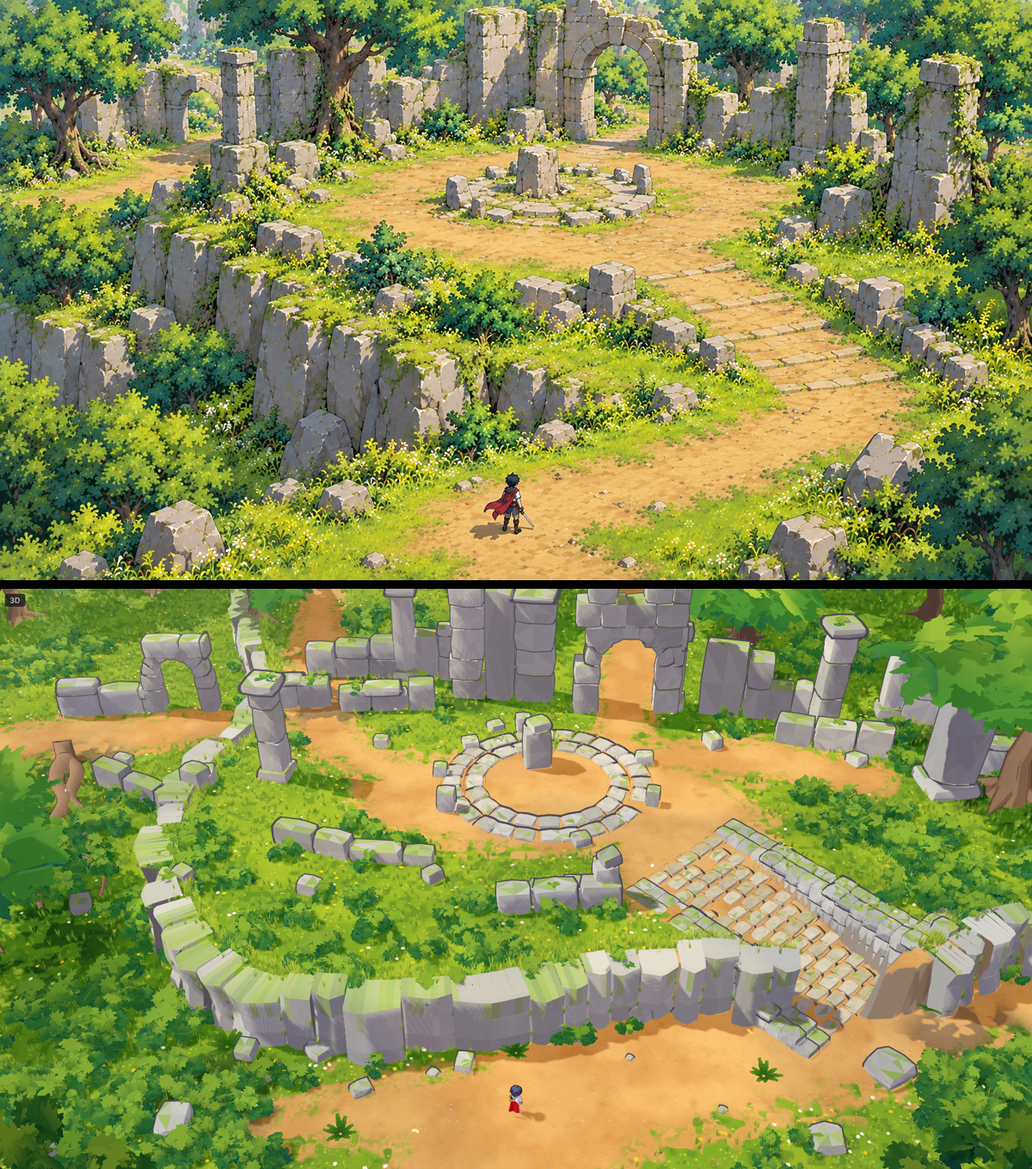
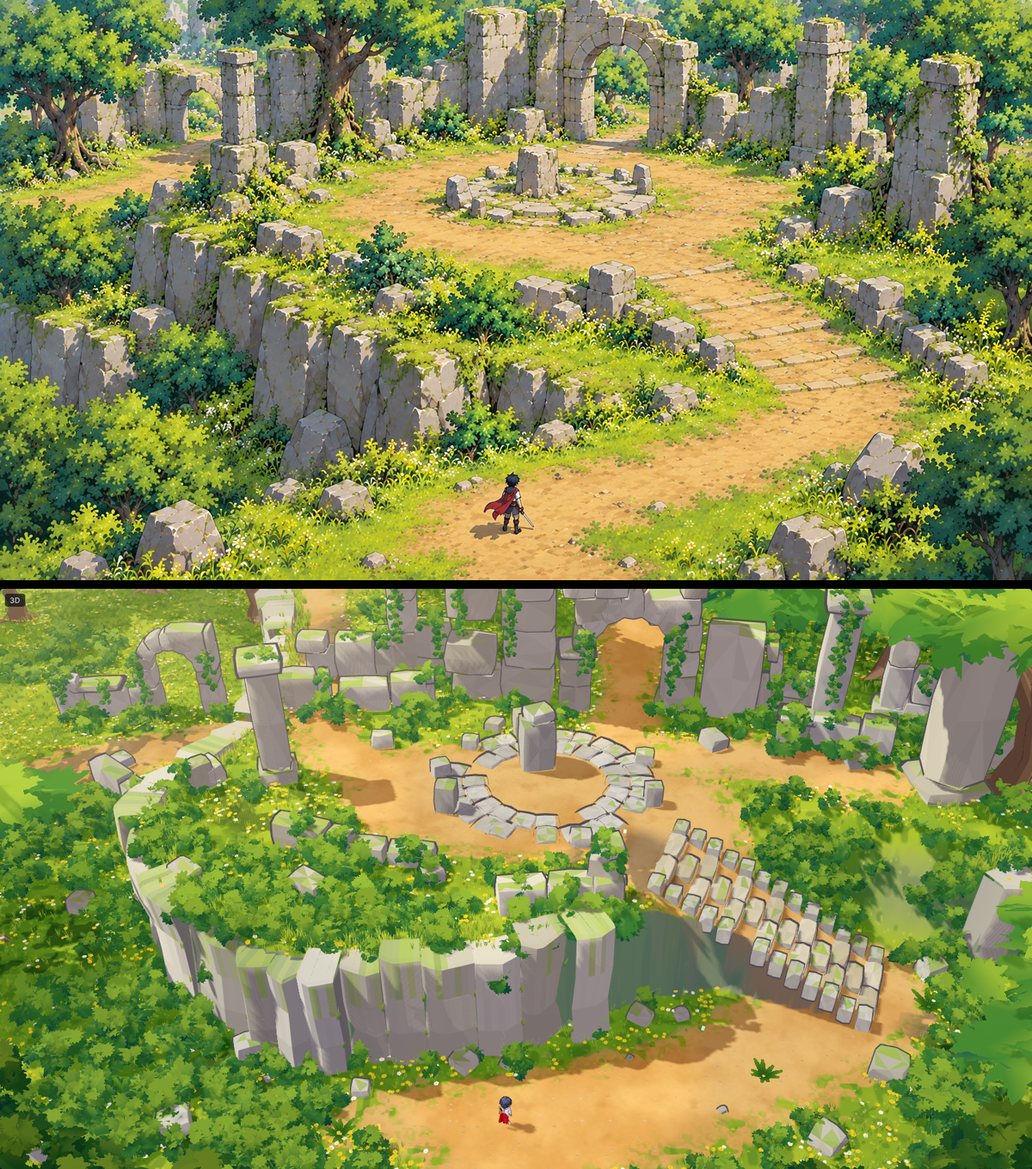
Ruins scene: concept heights and positions, stair on a hillside as the leading line, overgrowth and warm light
Claude-Session: https://claude.ai/code/session_01N6NyACoSM5MyJPcPLs4wAw

diff --git a/scenes/ruins/scene.js b/scenes/ruins/scene.js
@@ -11,8 +11,8 @@ function P(u, v, y = 0) {
 const K = 2.4;   // the owner asked for more room in the same frame: the camera stands K x farther back
 const TS = K / 1.8 * 1.25;   // trees grow with the room, and a quarter bigger again (owner's ask)
 const HT = 1.45, H = v => v * HT;   // cliff heights: tall rock faces, as in the forest scene
-const RS = K / 1.8;   // ruin scale: the masonry grows with the room so it keeps the concept's size in frame
-const UP = H(2.4);   // the upper level: the plaza and the ruins
+const RS = K * 0.65;   // ruin scale: the concept's proportions, grown with the room, so the frame matches the concept
+const UP = 2.9 * K;   // the upper level (the plaza and the ruins): the concept's cliff, a few times the hero's height, grown with the room
 const inFrame = (u, v) => u > -0.08 && u < 1.08 && v > -0.06 && v < 1.06;
 // ground mesh bounds (metres)
 const GX0 = -30 * K, GX1 = 30 * K, GZ0 = -44 * K, GZ1 = 10 * K;
@@ -22,10 +22,10 @@ function noise2(x, z) { return Math.sin(x * 0.7 + Math.sin(z * 0.53)) * 0.5 + Ma
 // from the right, and on the left it turns back toward the ruins; the far left stays low. 'b' points sit at the cliff foot on the low ground, 't' points on the
 // top off screen, 'n' points at the foot of the paved ramp (no cliff there: the ramp cuts the slope).
 const TERRACES = [
-  { top: UP, ledge: true, pts: [[0.23, -0.5, 't'], [0.24, 0.05, 'b'], [0.25, 0.17, 'b'], [0.255, 0.24, 'b'], [0.24, 0.3, 'b'], [0.205, 0.36, 'b'], [0.175, 0.44, 'b'], [0.165, 0.54, 'b'],
-    [0.18, 0.64, 'b'], [0.215, 0.725, 'b'], [0.27, 0.77, 'b'], [0.36, 0.785, 'b'], [0.46, 0.775, 'b'], [0.54, 0.745, 'b'], [0.61, 0.725, 'b'], [0.68, 0.72, 'b'], [0.745, 0.73, 'b'], [0.795, 0.742, 'b'],
-    [0.802, 0.744, 'n'], [0.866, 0.733, 'n'],
-    [0.872, 0.732, 'b'], [0.91, 0.705, 'b'], [0.95, 0.665, 'b'], [0.99, 0.65, 'b'], [1.3, 0.67, 'b'], [1.3, -0.5, 't']] },
+  { top: UP, ledge: true, pts: [[0.27, -0.5, 't'], [0.28, 0.05, 'b'], [0.28, 0.2, 'b'], [0.27, 0.3, 'b'], [0.25, 0.37, 'b'], [0.21, 0.43, 'b'], [0.17, 0.5, 'b'], [0.155, 0.58, 'b'],
+    [0.17, 0.66, 'b'], [0.215, 0.73, 'b'], [0.27, 0.78, 'b'], [0.36, 0.8, 'b'], [0.45, 0.79, 'b'], [0.52, 0.765, 'b'], [0.58, 0.73, 'b'], [0.63, 0.7, 'b'], [0.7, 0.69, 'b'], [0.77, 0.7, 'b'],
+    [0.8, 0.705, 'n'], [0.9, 0.69, 'n'],
+    [0.92, 0.68, 'b'], [0.97, 0.64, 'b'], [1.3, 0.62, 'b'], [1.3, -0.5, 't']] },
 ].map(T => {
   let pts = T.pts.map(([u, v, k]) => { const [x, z] = P(u, v, k === 't' ? T.top : 0); return { x, z, wall: k === 'b' && inFrame(u, v), u, v }; });
   if (T.ledge) {
@@ -56,8 +56,9 @@ function polyAt(T, x, z) {
 }
 // the paved ramp from the front trail up to the plaza
 const ST = (() => {
-  const [x0, z0] = P(0.835, 0.725, 0), [x1, z1] = P(0.66, 0.46, UP), dx = x1 - x0, dz = z1 - z0, len = Math.hypot(dx, dz);
-  return { x0, z0, x1, z1, ux: dx / len, uz: dz / len, len, half: 3.6, n: Math.round(len / 1.0), top: UP };
+  const [x0, z0] = P(0.85, 0.7, 0), [x1, z1] = P(0.64, 0.455, UP), dx = x1 - x0, dz = z1 - z0, len = Math.hypot(dx, dz);
+  const [ax, az] = P(0.695, 0.56, UP * 0.5), [bx, bz] = P(0.795, 0.56, UP * 0.5);
+  return { x0, z0, x1, z1, ux: dx / len, uz: dz / len, len, half: Math.hypot(bx - ax, bz - az) * 0.38, bank: 8, n: Math.round(UP / 0.55), top: UP };
 })();
 function stairsAt(x, z) {
   const rx = x - ST.x0, rz = z - ST.z0, a = (rx * ST.ux + rz * ST.uz) / ST.len, s = Math.abs(-rx * ST.uz + rz * ST.ux);
@@ -66,14 +67,13 @@ function stairsAt(x, z) {
 // trails: polylines of [u, v, half width m, plane height]
 const TRAILS = [
   // the low ground: from the bottom of the frame to the ramp foot, a branch out to the right
-  [[0.47, 1.25, 2.6], [0.48, 0.95, 2.6], [0.56, 0.86, 2.4], [0.68, 0.8, 2.3], [0.78, 0.76, 2.3], [0.835, 0.74, 2.3]],
-  [[0.8, 0.77, 1.8], [0.9, 0.745, 1.6], [0.98, 0.715, 1.5], [1.1, 0.7, 1.4]],
-  [[0.28, 0.93, 1.3], [0.4, 0.9, 1.8], [0.48, 0.92, 2.2]],
+  [[0.47, 1.25, 1.9], [0.49, 0.95, 1.9], [0.57, 0.9, 1.8], [0.67, 0.855, 1.8], [0.76, 0.785, 1.8], [0.83, 0.725, 1.7], [0.85, 0.705, 1.6]],
+  [[0.33, 0.93, 1.0], [0.4, 0.91, 1.4], [0.48, 0.92, 1.8]],
   // up top: the plaza round the stone ring, out through the arch, to the left and to the right
-  [[0.42, 0.345, 2.6, UP], [0.53, 0.355, 3.1, UP], [0.64, 0.38, 2.6, UP], [0.66, 0.44, 2.4, UP], [0.665, 0.48, 2.4, UP]],
+  [[0.42, 0.345, 2.6, UP], [0.53, 0.355, 3.1, UP], [0.63, 0.38, 2.4, UP], [0.645, 0.43, 2.0, UP], [0.645, 0.46, 2.0, UP]],
   [[0.56, 0.33, 1.6, UP], [0.6, 0.25, 1.3, UP], [0.61, 0.16, 1.1, UP], [0.62, 0.0, 1.0, UP], [0.63, -0.3, 1.0, UP]],
   [[0.45, 0.33, 1.6, UP], [0.36, 0.3, 1.3, UP], [0.315, 0.24, 1.2, UP], [0.31, 0.12, 1.1, UP], [0.31, -0.3, 1.0, UP]],
-  [[0.2, 0.235, 1.1], [0.1, 0.255, 1.1], [-0.1, 0.275, 1.0]],
+  [[0.25, 0.25, 1.0], [0.15, 0.28, 1.0], [0.05, 0.32, 1.0], [-0.1, 0.37, 0.9]],
   [[0.64, 0.29, 1.1, UP], [0.75, 0.295, 1.0, UP], [0.84, 0.325, 0.95, UP]],
 ].map(pl => pl.map(([u, v, w, h = 0]) => { const [x, z] = P(u, v, h); return new V3(x, w * K, z); }))
   // a smooth curve through the authored points (width rides along in y), sampled every 1.2 m
@@ -93,7 +93,7 @@ function trailAt(x, z) {
 const edgeWob = (x, z) => 1.0 * noise2(x * 0.19 + 3.1, z * 0.23 - 1.7) + 0.45 * noise2(x * 0.51 - 2, z * 0.44 + 4);
 const trailEdge = (x, z) => trailAt(x, z) + edgeWob(x, z);
 // patches of leaf shade on the ground, where the concept's canopy darkens the trail
-const SHADE = [[0.07, 0.33, 3.0], [0.33, 0.25, 2.4], [0.72, 0.2, 2.4], [0.97, 0.42, 2.6], [0.05, 0.6, 2.5], [0.95, 0.8, 2.4], [0.2, 0.88, 2.2], [0.45, 0.24, 1.8], [0.86, 0.3, 1.8]]
+const SHADE = [[0.37, 0.2, 2.8], [0.5, 0.21, 2.2], [0.86, 0.25, 2.6], [0.14, 0.28, 2.6], [0.6, 0.62, 2.0], [0.28, 0.5, 2.2], [0.07, 0.33, 3.0], [0.33, 0.25, 2.4], [0.72, 0.2, 2.4], [0.97, 0.42, 2.6], [0.05, 0.6, 2.5], [0.95, 0.8, 2.4], [0.2, 0.88, 2.2], [0.45, 0.24, 1.8], [0.86, 0.3, 1.8]]
   .map(([u, v, r]) => { const [x, z] = P(u, v); return { x, z, r: r * K }; });
 const shadeAt = (x, z) => SHADE.reduce((m, s) => Math.max(m, 1 - smooth(s.r * 0.45, s.r, Math.hypot(x - s.x, z - s.z))), 0);
 
@@ -107,7 +107,13 @@ function field(x, z) {
     if (w > 0) { y = Math.max(y, T.top * w); if (T.ledge || T.top > 2) top = Math.max(top, w); }
   }
   const st = stairsAt(x, z);
-  if (st.inside) y = ST.top * Math.max(0, Math.min(1, st.a));
+  // the stair lies on a hillside: the ground either side slopes down with it, no cliff beside it
+  if (st.a > -0.35 && st.a < 1.1 && st.s < ST.half + ST.bank) {
+    const sy = ST.top * Math.max(0, Math.min(1, st.a));
+    const k = Math.max(smooth(ST.half + 0.3, ST.half + ST.bank, st.s), smooth(1.0, 1.1, st.a));
+    if (y > sy) y = sy + (y - sy) * k;
+    if (st.inside) y = sy;
+  }
   return { y, top };
 }
 function height(x, z) {
@@ -135,7 +141,7 @@ function buildGround() {
   g.computeVertexNormals();
   const box = new THREE.Vector4(GX0, GZ0, W, D);
   const mat = paint({
-    vertexColors: true, shade: [0.62, 0.5, 0.42], mid: [0.84, 0.74, 0.64], band: [-0.2, 0.18],
+    vertexColors: true, shade: [0.5, 0.42, 0.4], mid: [0.8, 0.7, 0.62], band: [-0.2, 0.18],
     uniforms: { uBake: GROUND_BAKE, uBakeBox: { value: box } },
     extraFrag: 'uniform sampler2D uBake; uniform vec4 uBakeBox;',
     albedo: /* glsl */`
@@ -165,14 +171,14 @@ function buildGround() {
   tr*=1.-step(.76,vnoise(q*1.6+11.))*smoothstep(-2.,-.5,dd);
   wgt.x=1.-tr; wgt.y=tr;
   // the trail: packed orange dirt with darker trodden patches, worn paler middle and small pebbles
-  vec3 trail=mix(${L('#dda461')},${L('#ecba72')},smoothstep(.3,.7,n1));
+  vec3 trail=mix(${L('#e0ab63')},${L('#efc27b')},smoothstep(.3,.7,n1));
   trail=mix(trail,${L('#cc8f4c')},smoothstep(.6,.8,fbm(q*.8+5.))*.4);
   trail=mix(trail,${L('#f2c886')},(1.-smoothstep(-3.,-1.,vD))*smoothstep(.45,.7,fbm(q*.5+2.))*.35);
   trail*=.97+.05*n3;
   vec2 pc=fract(q*2.6)-.5; float peb=step(.9,hash12(floor(q*2.6)))*(1.-smoothstep(.1,.16,length(pc)));
   trail=mix(trail,mix(${L('#a99a86')},${L('#d8cfc0')},step(0.,pc.y)),peb*.85);
   // grass: bright yellow-green, darker mottles and pale specks
-  vec3 grass=mix(${L('#86a836')},${L('#a6bc3b')},smoothstep(.32,.7,n1));
+  vec3 grass=mix(${L('#90ad38')},${L('#b3c540')},smoothstep(.32,.7,n1));
   grass=mix(grass,${L('#5a8536')},smoothstep(.56,.78,n2)*.55);
   grass=mix(grass,${L('#cdd65a')},step(.965,hash12(floor(q*9.)))*.7);
   // a ragged grass edge spilling over the dirt
@@ -205,7 +211,7 @@ function buildGround() {
 const COLLIDERS = [];
 function cliffRuns(T) {
   const p = T.pts, n = p.length;
-  const onStairs = q => stairsAt(q.x, q.z).s < ST.half - 0.4 && stairsAt(q.x, q.z).a > -0.15 && stairsAt(q.x, q.z).a < 1.15;
+  const onStairs = q => stairsAt(q.x, q.z).s < ST.half + ST.bank - 1 && stairsAt(q.x, q.z).a > -0.35 && stairsAt(q.x, q.z).a < 1.05;   // the hillside by the stair
   const wall = i => p[i].wall && !onStairs(p[i]) && !onStairs(p[(i + 1) % n]);
   const runs = [];
   if (p.every((_, i) => wall(i))) return [{ pts: p.slice(), closed: true }];
@@ -252,9 +258,9 @@ function buildCliffs() {
       // columns between cracks
       const cols = []; let i0 = 0;
       while (i0 < S.length - 1) {
-        const w = rand() < 0.22 ? R(2.6, 4.2) : R(1.1, 2.2); let i1 = i0 + 1;
+        const w = (rand() < 0.22 ? R(2.6, 4.2) : R(1.1, 2.2)) * 1.5; let i1 = i0 + 1;
         while (i1 < S.length - 1 && S[i1].s - S[i0].s < w) i1++;
-        cols.push({ i0, i1, s0: S[i0].s, s1: S[i1].s, off: R(-0.2, 1.0), slope: R(-0.15, 0.15), ridge: R(0.2, 0.6), peak: R(0.3, 0.7), top: T.top + R(0.05, 0.9), cap: R(0.9, 1.6), moss: R(0, 1), rows: F.map(() => R(-0.25, 0.25)), lean: R(-0.2, 0.35), c: pick(stone).clone().multiplyScalar(R(0.95, 1.05)), mid: (S[i0].s + S[i1].s) / 2 });
+        cols.push({ i0, i1, s0: S[i0].s, s1: S[i1].s, off: R(-0.2, 1.4), slope: R(-0.15, 0.15), ridge: R(0.3, 0.9), peak: R(0.3, 0.7), top: T.top + (rand() < 0.35 ? R(0.6, 1.6) : R(-0.3, 0.4)), cap: R(0.9, 1.6), moss: R(0, 1), rows: F.map(() => R(-0.25, 0.25)), lean: R(-0.2, 0.35), c: pick(stone).clone().multiplyScalar(R(0.95, 1.05)), mid: (S[i0].s + S[i1].s) / 2 });
         i0 = i1;
       }
       const vtx = (C, i, r) => {
@@ -324,34 +330,22 @@ function buildCliffs() {
 }
 function buildLedges() {
   const blk = { chamfer: 0.12, jitter: 0.14, extra: 7 };
-  // the ramp: rows of worn sandy slabs in a running bond
-  const across = Math.max(3, Math.round(ST.half * 2 / 1.4)), ry = Math.atan2(ST.ux, ST.uz), wd = ST.half * 2 / across;
+  // the stair: rows of worn sandy slabs in a running bond, one step a row
+  const across = Math.max(2, Math.round(ST.half * 2 / 2.3)), ry = Math.atan2(ST.ux, ST.uz), wd = ST.half * 2 / across;
   for (let i = 0; i < ST.n; i++) {
     const a = (i + 0.5) / ST.n;
     for (let k = 0; k <= across; k++) {
       const off = -ST.half + (k + (i % 2 ? 0 : 0.5)) * wd;
       if (Math.abs(off) > ST.half - wd * 0.3 || rand() < 0.05) continue;
       const x = ST.x0 + ST.ux * ST.len * a + ST.uz * off, z = ST.z0 + ST.uz * ST.len * a - ST.ux * off;
-      addStone(x, height(x, z) - 0.12, z, wd * R(0.84, 0.95), 0.24, ST.len / ST.n * R(0.82, 0.94), { chamfer: 0.18, jitter: 0.06, extra: 4, ry: ry + R(-0.05, 0.05), moss: 0.1, base: pick(['#ddd0ae', '#d2c4a0', '#e4d8b8']) });
+      addStone(x, ST.top * i / ST.n - 0.1, z, wd * R(0.95, 1.0), ST.top / ST.n + 0.14, ST.len / ST.n * 1.06, { chamfer: 0.18, jitter: 0.06, extra: 4, ry: ry + R(-0.05, 0.05), moss: 0.1, base: pick(['#ddd0ae', '#d2c4a0', '#e4d8b8']) });
     }
-    // its sides: masonry filling the step between the ramp and the ground beside it
-    for (const side of [-1, 1]) for (const d of [0.6, 1.7]) {
-      const px = ST.x0 + ST.ux * ST.len * a + ST.uz * side * (ST.half + d), pz = ST.z0 + ST.uz * ST.len * a - ST.ux * side * (ST.half + d);
-      const yr = ST.top * a, out = Math.max(height(px, pz), height(px + ST.uz * side * 1.8, pz - ST.ux * side * 1.8));
-      const lo = Math.min(yr, out) - 0.4, hi = Math.round((Math.max(yr + 0.4, out + 0.15)) / 0.45) * 0.45;   // tops on a course line, not jagged
-      if (hi - lo < 0.5) continue;
-      for (let y = lo; y < hi - 0.1;) { const h = Math.min(0.95 * RS, hi - y); block(px, y, pz, ST.len / ST.n * 1.04, h, 1.15, ry, y + h >= hi - 0.05 ? 0.5 : 0.15); y += h; }
-      COLLIDERS.push({ x: px, z: pz, r: 0.7 });
+    // kerb stones along both edges, half sunk, some gone
+    for (const side of [-1, 1]) {
+      if (rand() < 0.15) continue;
+      const px = ST.x0 + ST.ux * ST.len * a + ST.uz * side * (ST.half + 0.45), pz = ST.z0 + ST.uz * ST.len * a - ST.ux * side * (ST.half + 0.45);
+      block(px, ST.top * i / ST.n - 0.2, pz, ST.len / ST.n * 1.04, ST.top / ST.n + R(0.45, 0.8), 0.85, ry + R(-0.05, 0.05), 0.4);
     }
-  }
-  // the corners at the ramp's foot: masonry wrapping round to meet the cliff
-  for (const side of [-1, 1]) for (const d of [0.6, 1.7, 2.8, 3.9]) {
-    const px = ST.x0 + ST.uz * side * (ST.half + d) - ST.ux * 0.3, pz = ST.z0 - ST.ux * side * (ST.half + d) - ST.uz * 0.3;
-    const out = Math.max(height(px + ST.ux * 1.2, pz + ST.uz * 1.2), height(px + ST.ux * 2.4, pz + ST.uz * 2.4));
-    if (out < 0.8) continue;
-    const hi = Math.round((out + 0.15) / 0.45) * 0.45;
-    for (let y = height(px, pz) - 0.4; y < hi - 0.1;) { const h = Math.min(0.95 * RS, hi - y); block(px, y, pz, 1.12, h, 1.2, ry, y + h >= hi - 0.05 ? 0.5 : 0.15); y += h; }
-    COLLIDERS.push({ x: px, z: pz, r: 0.7 });
   }
 }
 
@@ -362,6 +356,11 @@ const blockStyle = { chamfer: 0.1, jitter: 0.05, extra: 5 };
 function block(x, y, z, w, h, d, ry = 0, moss = 0.35, o = {}) {
   // never a sliver: a thin block's outline shell would be scaled up into a dark sheet
   addStone(x, y, z, Math.max(w, 0.35), Math.max(h, 0.35), Math.max(d, 0.35), { ...blockStyle, ry, moss, ...o });
+}
+// ivy hanging down a face from y0: a strand of small leaf clumps, thinning as it falls
+function ivy(x, y0, z, nx, nz, len) {
+  const n = Math.max(2, Math.round(len / (0.42 * RS)));
+  for (let i = 0; i < n; i++) { const t = i / n; addBush(x + nx * 0.18 + R(-0.18, 0.18), y0 - t * len, z + nz * 0.18, (0.34 - 0.14 * t) * RS, { sy: 0.9, tint: R(-0.7, 0.2) }); }
 }
 // a column of drums on a plinth, capped or broken off
 function pillar(u, v, hgt, w, { cap = true } = {}) {
@@ -374,7 +373,9 @@ function pillar(u, v, hgt, w, { cap = true } = {}) {
   else while (y < g + hgt - 0.7 * RS) { const h = Math.min(R(1.6, 2.6) * RS, g + hgt - 0.5 * RS - y); block(x + R(-0.06, 0.06), y, z + R(-0.06, 0.06), w * R(0.95, 1.02), h, w * R(0.95, 1.02), ry + R(-0.05, 0.05), 0.3); y += h - 0.02; }
   if (cap) block(x, y, z, w * 1.35, 0.5 * RS, w * 1.35, ry, 0.75);
   else block(x + w * 0.15, y, z, w * 0.75, 0.6 * RS, w * 0.7, ry + 0.4, 0.7, { rz: 0.18 });
-  if (rand() < 0.6) addBush(x + R(-0.3, 0.3), y + 0.3 * RS, z + R(-0.3, 0.3), 0.45 * RS, { sy: 0.45, tint: 0.2 });
+  if (rand() < 0.75) addBush(x + R(-0.3, 0.3), y + 0.3 * RS, z + R(-0.3, 0.3), 0.5 * RS, { sy: 0.45, tint: 0.2 });
+  if (rand() < 0.6) ivy(x + R(-0.2, 0.2) * w, y + 0.2 * RS, z + w * 0.5, 0, 1, (y - g) * R(0.35, 0.8));
+  for (let k = 0; k < 2; k++) addBush(x + R(-1, 1) * w, g - 0.1, z + w * R(0.6, 1.2), R(0.5, 0.8) * RS, { sy: 0.7, tint: R(-0.8, 0) });
   COLLIDERS.push({ x, z, r: w * 0.85 });
 }
 // a ruined wall along a polyline: courses of blocks in a running bond, its top broken and ragged
@@ -394,8 +395,11 @@ function wallRun(pts, hgt, depth, seedOff = 0) {
         if (!(course > 1 && rand() < 0.06)) block(x + tx * sh, y, z + tz * sh, w * R(0.92, 1.0), h, depth * R(0.92, 1.05), ry + R(-0.04, 0.04), y + h > g + top - 0.25 ? 0.65 : 0.18);
         y += h; course++;
       }
-      if (rand() < 0.3) addBush(x, g + top - 0.1, z, R(0.35, 0.55) * RS, { sy: 0.45, tint: 0.2 });
-      if (rand() < 0.3) addBush(x + R(-0.6, 0.6), g - 0.1, z + R(0.6, 1.4), R(0.5, 0.8) * RS, { sy: 0.7, tint: -0.5 });
+      // overgrown: moss and leaves on top, ivy down the face toward us, bushes at the foot
+      let nx = tz, nz = -tx; if (nz < 0) { nx = -nx; nz = -nz; }
+      if (rand() < 0.6) addBush(x, g + top - 0.1, z, R(0.4, 0.6) * RS, { sy: 0.45, tint: 0.2 });
+      if (rand() < 0.5) ivy(x + tx * R(-0.4, 0.4) * w + nx * depth * 0.5, g + top, z + tz * R(-0.4, 0.4) * w + nz * depth * 0.5, nx, nz, top * R(0.4, 0.85));
+      if (rand() < 0.75) addBush(x + nx * (depth * 0.5 + R(0.3, 0.9)) + tx * R(-0.5, 0.5) * w, g - 0.1, z + nz * (depth * 0.5 + R(0.3, 0.9)), R(0.55, 0.9) * RS, { sy: 0.7, tint: R(-0.8, 0) });
       COLLIDERS.push({ x, z, r: Math.max(w, depth) * 0.55 });
       s += w;
     }
@@ -409,6 +413,8 @@ function archway(u, v, span, pierH, topH, pierW, depth, ry = 0) {
   for (const side of [-1, 1]) {
     for (let y = g; y < g + pierH;) { const h = Math.min(R(1.4, 2.2) * RS, g + pierH - y); at(side * (span / 2 + pierW / 2), y, pierW * R(0.97, 1.02), h); y += h; }
     COLLIDERS.push({ x: cx + side * (span / 2 + pierW / 2) * c, z: cz - side * (span / 2 + pierW / 2) * sn, r: pierW * 0.7 });
+    if (rand() < 0.7) ivy(cx + side * (span / 2 + pierW * R(0.2, 0.8)) * c, g + pierH + 0.6 * RS, cz - side * (span / 2 + pierW / 2) * sn + depth * 0.5, sn, c, pierH * R(0.5, 0.9));
+    addBush(cx + side * (span / 2 + pierW) * c, g + 0.1, cz + depth * 0.5 + 0.6, R(0.6, 0.9) * RS, { sy: 0.7, tint: -0.4 });
   }
   const r0 = span / 2, ring = 0.9 * RS, n = 7, yc = g + pierH;
   for (let i = 0; i < n; i++) { const th = (i + 0.5) / n * Math.PI; at(Math.cos(th) * r0, yc + Math.sin(th) * r0, Math.PI * (r0 + ring / 2) / n * 0.94, ring, th - Math.PI / 2, 0.35); }
@@ -615,7 +621,7 @@ FOL.leaf = ['#2f6a55', '#56913f', '#a6c247']; FOL.shrub = ['#2c6150', '#468040',
 FOL.trunk = { light: '#c49c76', mid: '#9d7b5d', shadow: '#6f5749', line: '#4a372e' };
 // the cherry in the middle: pale blossom with rose shade, dark grey-brown bark
 const SAKURA = { bloom: ['#b35583', '#ec92b4', '#ffd0df'], trunk: { light: '#9a7f78', mid: '#75605c', shadow: '#54443f', line: '#3d302d' }, petal: ['#ffc4d6', '#f7a9c2', '#ffe4ec'] };
-STONE.splice(0, STONE.length, '#d3cfc3', '#c9c5b8', '#cfc9bb', '#bdb9ae', '#c6c2b6', '#d8d3c5');
+STONE.splice(0, STONE.length, '#dad3c1', '#d0c9b5', '#d7d0bc', '#c5bea9', '#cec7b2', '#e0d9c5');
 MOSS.splice(0, MOSS.length, '#a7c63f', '#93b23a', '#b5c94c');
 // ---------- assemble ----------
 const crownOnly = [];   // crowns without a trunk (none here)
@@ -656,14 +662,16 @@ function build() {
     COLLIDERS.push({ x, z, r: w * 0.7 });
   }
   // trees: [u, v, scale, crown variant, trunk stretch]; their base height comes from the ground
-  const TREES = [[0.065, 0.285, 1.5, 3, 0.75], [0.33, 0.215, 1.4, 5, 0.7], [0.72, 0.09, 1.4, 9, 0.7], [0.975, 0.36, 1.5, 5, 0.75], [0.9, 0.05, 1.3, 3, 0.7],
+  const TREES = [[0.33, 0.215, 1.4, 5, 0.7], [0.72, 0.09, 1.4, 9, 0.7], [0.975, 0.36, 1.5, 5, 0.75], [0.9, 0.05, 1.3, 3, 0.7],
     [0.02, 0.05, 1.3, 9, 0.7], [0.15, 0.0, 1.3, 5, 0.7], [0.45, 0.02, 1.3, 3, 0.7], [0.55, -0.04, 1.3, 9, 0.7], [0.8, -0.02, 1.3, 5, 0.7], [1.0, 0.13, 1.3, 9, 0.7],
     [0.25, 0.05, 1.2, 9, 0.7], [0.66, 0.03, 1.2, 3, 0.7], [0.36, -0.03, 1.3, 5, 0.7], [0.1, -0.05, 1.3, 3, 0.7], [0.92, -0.06, 1.3, 9, 0.7],
-    [1.02, 0.84, 1.4, 9, 0.55], [-0.02, 0.6, 1.3, 3, 0.6]];
+    [1.02, 0.84, 1.4, 9, 0.55], [-0.02, 0.6, 1.3, 3, 0.6],
+    // big trees standing among the ruins, trunks in view as in the concept
+    [0.37, 0.11, 1.4, 5, 0.75, 1], [0.505, 0.12, 1.3, 3, 0.7, 1], [0.86, 0.15, 1.3, 9, 0.7, 1], [0.09, 0.2, 1.5, 3, 0.75, 1]];
   const trunkAt = [];
-  for (let [u, v, s, seed, h] of TREES) {
+  for (let [u, v, s, seed, h, keep] of TREES) {
     s *= 1.35 * TS; h *= 1.3;
-    if (v < 0.25) h *= 0.62;   // the back row: lower trunks keep the bigger crowns in the top of the frame
+    if (v < 0.25 && !keep) h *= 0.62;   // the back row: lower trunks keep the bigger crowns in the top of the frame
     let [x, z] = P(u, v, 0);
     if (trailAt(x, z) < 1.2 * s) continue;   // keep the trails open
     const top = height(x, z) > 1 ? height(x, z) : 0;
@@ -672,25 +680,24 @@ function build() {
     broadleaf(x, z, s, seed); treeItems[treeItems.length - 1].h = h;
     COLLIDERS.push({ x, z, r: 0.6 * s }); trunkAt.push([x, z, 1.4 * s]);
   }
-  // the big tree on the left: roots spreading over the ground
-  { const [x, z] = P(0.065, 0.285, 0); drapeRoots(x, z, height(x, z), [[0.03, 0.7, 1.1], [0.12, 0.69, 0.9], [0.0, 0.5, 0.8]], 1.3 * TS); }
   // bush masses: [u, v, radius m, count, size range] on the low ground and the upper level
   const BUSHES = [[0.04, 0.46, 2.4, 6, [0.9, 1.5]], [0.15, 0.56, 2.0, 4, [0.8, 1.3]], [0.3, 0.6, 2.0, 4, [0.8, 1.2]], [0.45, 0.62, 1.8, 3, [0.7, 1.1]], [0.38, 0.43, 1.6, 3, [0.8, 1.2]], [0.2, 0.46, 1.6, 3, [0.7, 1.1]],
-    [0.08, 0.82, 3.0, 8, [1.0, 1.6]], [0.15, 0.97, 2.5, 6, [0.9, 1.4]], [0.25, 0.9, 1.6, 3, [0.8, 1.2]],
+    [0.08, 0.82, 3.0, 8, [1.0, 1.6]], [0.15, 0.97, 2.5, 6, [0.9, 1.4]], [0.25, 0.9, 1.6, 3, [0.8, 1.2]], [0.3, 0.98, 1.6, 4, [0.8, 1.2]], [0.66, 0.97, 1.6, 4, [0.8, 1.2]], [0.75, 0.88, 1.4, 3, [0.7, 1.1]],
     [0.88, 0.46, 2.0, 4, [0.8, 1.3]], [0.97, 0.52, 2.0, 4, [0.8, 1.3]], [0.8, 0.39, 1.6, 3, [0.7, 1.1]], [0.93, 0.76, 2.4, 5, [0.9, 1.5]], [0.98, 0.92, 2.4, 5, [1.0, 1.6]], [0.72, 0.96, 1.4, 2, [0.7, 1.0]],
     [0.3, 0.23, 1.5, 3, [0.7, 1.1]], [0.7, 0.25, 1.2, 2, [0.6, 1.0]], [0.85, 0.27, 1.5, 3, [0.7, 1.1]], [0.12, 0.22, 1.5, 3, [0.7, 1.1]], [0.4, 0.22, 1.2, 2, [0.6, 1.0]], [0.95, 0.2, 2.0, 3, [0.8, 1.2]],
-    [0.05, 0.12, 2.4, 5, [0.9, 1.4]], [0.38, 0.08, 2.2, 4, [0.9, 1.3]], [0.8, 0.1, 2.2, 4, [0.9, 1.3]]];
+    [0.05, 0.12, 2.4, 5, [0.9, 1.4]], [0.38, 0.08, 2.2, 4, [0.9, 1.3]], [0.8, 0.1, 2.2, 4, [0.9, 1.3]],
+    [0.33, 0.5, 2.2, 6, [0.8, 1.3]], [0.24, 0.56, 2.0, 5, [0.8, 1.2]], [0.5, 0.46, 1.6, 3, [0.7, 1.1]], [0.62, 0.52, 1.4, 3, [0.7, 1.1]], [0.42, 0.4, 1.4, 3, [0.7, 1.0]], [0.75, 0.42, 1.6, 4, [0.8, 1.2]]];
   for (const [u, v, rad, n, [s0, s1]] of BUSHES) {
     const [x0, z0] = P(u, v, 0); let [cx, cz] = [x0, z0];
     const top = height(x0, z0); if (top > 1) [cx, cz] = P(u, v, top);
     for (let k = 0; k < n * K * K; k++) {
       const a = R(0, 6.28), r = Math.sqrt(rand()) * rad * K, x = cx + Math.cos(a) * r, z = cz + Math.sin(a) * r;
       if (trailEdge(x, z) < 0.2 || stairsAt(x, z).inside || trunkAt.some(([tx, tz, tr]) => Math.hypot(x - tx, z - tz) < tr) || COLLIDERS.some(c => Math.hypot(x - c.x, z - c.z) < c.r)) continue;
-      addBush(x, height(x, z) - 0.1, z, R(s0, s1) * 0.78, { sy: 0.72, tint: R(-1.4, 0) });
+      addBush(x, height(x, z) - 0.1, z, R(s0, s1) * 0.78, { sy: 0.72, tint: R(-2.0, -0.2) });
     }
   }
   // foreground leaves at the bottom corners, close to the lens and darker
-  for (const [u, v, y, r] of [[0.03, 0.98, 2.6, 2.4], [0.11, 1.02, 2.2, 2.0], [0.97, 0.97, 2.4, 2.3], [0.9, 1.02, 2.0, 1.8]]) {
+  for (const [u, v, y, r] of [[0.03, 0.98, 2.6, 2.4], [0.11, 1.02, 2.2, 2.0], [0.97, 0.97, 2.4, 2.3], [0.9, 1.02, 2.0, 1.8], [0.2, 1.03, 2.0, 1.8], [0.8, 1.03, 2.0, 1.7], [0.0, 0.85, 2.2, 2.0], [1.0, 0.75, 2.2, 2.0]]) {
     const [x, z] = P(u, v, y);
     addBush(x, y - 1.0, z, r * 0.85, { sy: 0.8, tint: -4.2 });
   }
@@ -704,7 +711,7 @@ function build() {
     const y = height(x, z);
     if (Math.abs(height(x + 0.4, z) - y) > 0.35 || Math.abs(height(x, z + 0.4) - y) > 0.35) continue;   // not on the ledge faces
     grassItems.push({ x, y: y - 0.03, z, s: R(0.75, 1.15), ry: R(0, 6.28), k: 0.82 + 0.3 * patch + R(-0.05, 0.05) });
-    if (rand() < (tr < 1.2 ? 0.3 : 0.12)) flowerItems.push({ x: x + R(-0.4, 0.4), y: y - 0.02, z: z + R(-0.4, 0.4), s: R(0.8, 1.15), ry: R(0, 6.28), c: rand() < 0.62 ? '#f6d43a' : '#fff8e6' });
+    if (rand() < (tr < 1.2 ? 0.45 : 0.22) * (0.5 + patch)) for (let k = 0; k < 3; k++) flowerItems.push({ x: x + R(-0.5, 0.5), y: y - 0.02, z: z + R(-0.5, 0.5), s: R(0.9, 1.3), ry: R(0, 6.28), c: rand() < 0.75 ? '#f6d43a' : '#fff8e6' });
   }
   for (const [u, v, sz] of ROCKS) {
     if (sz > 1.6) continue;
@@ -726,9 +733,11 @@ function build() {
   stones.castShadow = stones.receiveShadow = true;
   scene.add(stones, new THREE.Mesh(mergeGeometries(stoneLines), outlineMat('#4c4852')));
   // roots and the arch, with an ink outline
+  if (woodParts.length) {
   const wood = new THREE.Mesh(mergeGeometries(woodParts), paint({ vertexColors: true, shade: [0.62, 0.62, 0.7], mid: [0.62, 0.62, 0.7], band: [-5, -5] }));
   wood.castShadow = wood.receiveShadow = true; scene.add(wood);
   scene.add(new THREE.Mesh(mergeGeometries(woodInk), outlineMat(FOL.trunk.line)));
+  }
   const placeAll = (mesh, items, scale) => {
     const m = new THREE.Matrix4(), q = new THREE.Quaternion(), c = new THREE.Color();
     items.forEach((it, i) => {

diff --git a/scenes/ruins/assemble.py b/scenes/ruins/assemble.py
@@ -13,11 +13,16 @@ style = style.replace("background: #9fd6e8;", "background: #5f8f43;")
 style = style.replace("rgba(255, 238, 196, .3), rgba(255, 238, 196, .08) 45%", "rgba(255, 238, 196, .12), rgba(255, 238, 196, .04) 45%")
 style = style.replace("rgba(255, 246, 214, .07) 70px 120px", "rgba(255, 246, 214, .045) 70px 120px")
 assert '.12), rgba' in style
+# the ruins' mood: warm golden afternoon light over everything, a stronger glow from the top left
+style = style.replace("rgba(255, 238, 196, .12), rgba(255, 238, 196, .04) 45%", "rgba(255, 228, 170, .26), rgba(255, 228, 170, .08) 45%")
+style += "  #warm { background: linear-gradient(170deg, rgba(255, 196, 110, .16), rgba(255, 214, 140, .06) 55%, rgba(120, 90, 40, .08)); mix-blend-mode: soft-light; }\n"
+
 head = '<title>ทางเข้าซากปรักหักพัง</title>\n<meta name="claude:viewport-fit-sides" content="cover">\n<style>' + style.split('\n', 1)[1] + '</style>\n'
 markup = '''<div id="stage">
   <canvas id="c" aria-label="ฉาก 3D ทางเข้าซากปรักหักพัง"></canvas>
   <div class="atmo" id="sunwash"></div>
   <div class="atmo" id="rays"></div>
+  <div class="atmo" id="warm"></div>
   <div class="atmo" id="vignette"></div>
   <img id="ref" alt="ภาพคอนเซปต์ทางเข้าซากปรักหักพัง" src="%%REF%%">
   <div id="divider"></div>
@@ -71,7 +76,7 @@ hero = hero.replace(blocked.group(0), '''function blocked(x, z) {
 ''')
 scene = open(S + 'ruins/scene.js').read()
 scene = scene.replace("const COLLIDERS = [];\n", "")
-scene = scene.replace("function build() {\n  scene.add(buildGround());", "function build() {\n  { const [x, z] = P(0.5, 0.9); HERO.x = x; HERO.z = z; HERO.face = Math.PI - 0.25; }\n  scene.add(buildGround());")
+scene = scene.replace("function build() {\n  scene.add(buildGround());", "function build() {\n  { const [x, z] = P(0.49, 0.92); HERO.x = x; HERO.z = z; HERO.face = Math.PI - 0.25; }\n  scene.add(buildGround());")
 foliage = foliage.replace("const root = new THREE.Color('#4f8f2f'), tip = new THREE.Color('#d2e865')", "const root = new THREE.Color('#47702f'), tip = new THREE.Color('#bcc94a')")
 assert '#bcc94a' in foliage
 js = '\n'.join([imports, page, renderer, glsl, stones, foliage, glow, hero, scene])

diff --git a/scenes/README.md b/scenes/README.md
@@ -70,7 +70,18 @@ Done:
    - A paved ramp climbs to the plaza, with masonry along its sides.
    - The ruins are built from `pillar`, `wallRun`, `archway` and `plaza`, using big worn
      blocks. Some walls and pillars are single slabs (owner: not so clearly cut into blocks).
-   - Known gap: a small bare-earth face beside the ramp foot on the right.
+   - Owner round 2 ("not the reference's mood"): ivy down walls and pillars, more bushes and
+     yellow flowers, big trees among the ruins, warm golden grade (`#warm` overlay), darker
+     shade, foreground framing.
+   - Owner round 3 ("height, position, layers and leading lines are a different league"):
+     - the frame now matches the concept: upper level `UP = 2.9 * K`, ruins `RS = 0.65 * K`;
+     - the cliff foot is traced from the concept, close behind the hero, with stepped,
+       jagged column tops;
+     - the leading line runs from the hero, curving right into a long, narrow stair. The stair
+       lies on a grassy hillside (`ST.bank`), not in a cut;
+     - a low path leads away top-left.
+   - Known gaps: stair steps still read as separate blocks; the right side of the stair hill is
+     plain grass, where the concept has a row of blocks.
 
 Owner preferences learnt so far: everything must be portable into the game (reuse the game's
 foliage and models, only recolour); judge composition and layout first, never just tone; round grey
